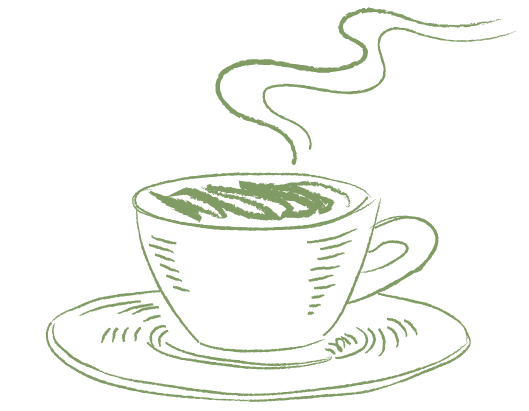
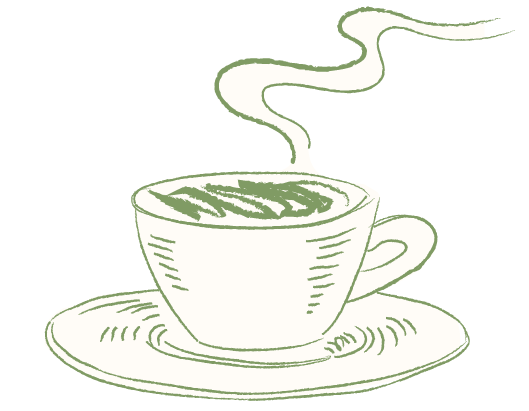
forside helt færdig

diff --git a/styles/forside.css b/styles/forside.css
@@ -71,7 +71,7 @@
 
 @media (min-width: 600px) {
   body {
-    background-image: url(/img/birke_blade.png);
+    background-image: url(/img/birkeblade.png);
     background-position: center;
     background-size: cover;
     background-repeat: no-repeat;
@@ -81,7 +81,8 @@
     min-height: 38rem;
   }
   .kaffe_billede {
-    display: none;
+    grid-row: 3;
+    width: 200px;
   }
   .wrapper > * {
     display: grid;
@@ -89,34 +90,32 @@
   }
   .button_container > * {
     font-size: 1rem;
-    grid-row: 2;
+    grid-row: 4;
   }
   .tekst {
-    grid-row: 3;
+    grid-row: 2;
     padding: 1rem;
+    justify-content: space-between;
+    font-family: "broedtekst";
+    margin-top: 0rem;
+    margin-bottom: 0rem;
   }
   .button_container {
     display: flex;
     gap: 2rem;
     margin-bottom: 2rem;
   }
-  .tekst {
-    justify-content: space-between;
-    font-family: "broedtekst";
-    margin-top: 0rem;
-    margin-bottom: 1rem;
-  }
+
   .h1 {
     font-size: clamp(1rem, 1.2718rem + 3.1068vw, 1.5rem);
   }
   header {
     margin-bottom: 3.5rem;
   }
-  .button-link {
+  /* .button-link {
     position: relative;
     padding: 3px;
-    border: 1px solid #6e8c4e;
-  }
+  } */
 }
 
 /* .p {
